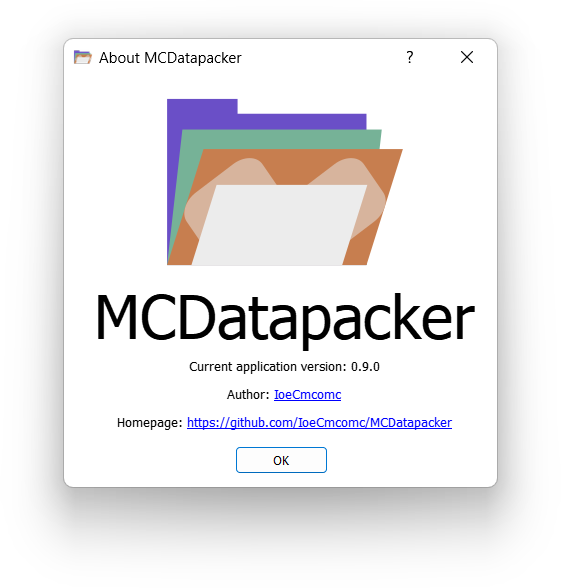
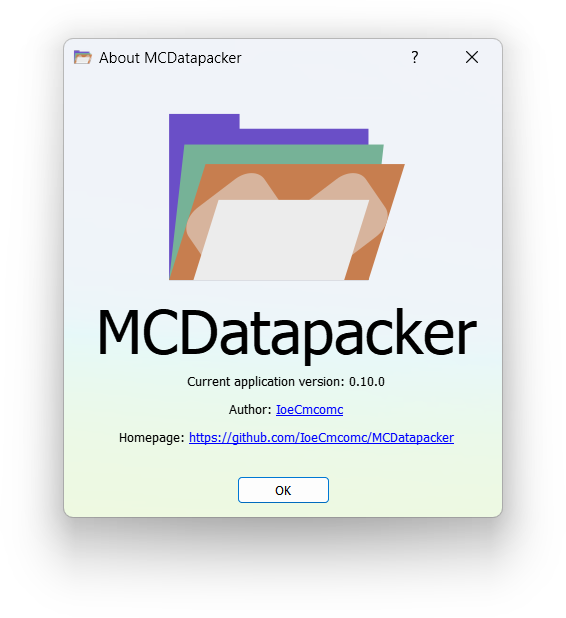
[Release] Bump version to v0.10.0
LocationConditionDialog:
- Fix the "structure" field not exportable to JSON in 1.19+.

- Update copyright year to 2024.
- Update screenshots.

diff --git a/src/locationconditiondialog.cpp b/src/locationconditiondialog.cpp
@@ -154,11 +154,13 @@ void LocationConditionDialog::fromJson(const QJsonObject &value) {
     if (value.contains(QStringLiteral("dimension")))
         setComboValueFrom(ui->dimensionCombo,
                           value[QStringLiteral("dimension")]);
-    if (value.contains(QStringLiteral("feature"))) {
-        if (Game::version() >= Game::v1_19) {
+    if (Game::version() >= Game::v1_19) {
+        if (value.contains(QStringLiteral("structure"))) {
             setComboValueFrom(ui->featureCombo,
                               value[QStringLiteral("structure")]);
-        } else {
+        }
+    } else {
+        if (value.contains(QStringLiteral("feature"))) {
             setComboValueFrom(ui->featureCombo,
                               value[QStringLiteral("feature")]);
         }

diff --git a/README.md b/README.md
@@ -8,7 +8,7 @@
 <p align="center">
 <img src="https://raw.githubusercontent.com/IoeCmcomc/MCDatapacker/master/resource/app/icon/favicon_big.png" width="150">
   <p align="center">
-    <b>MCDatapacker is a Minecraft datapack creator and editor for Minecraft 1.15 – 1.20.2.</b>
+    <b>MCDatapacker is a Minecraft datapack creator and editor for Minecraft 1.15 – 1.20.4.</b>
   </p>
 </p>
 
@@ -17,7 +17,7 @@
 MCDatapacker provides a unified interface for making and editing datapacks. It allows you to create new datapacks, open existing datapacks, manage files, and edit them quickly and conveniently.
 
 ## Features
-- Create and open any datapacks from 1.15 to 1.20.2;
+- Create and open any datapacks from 1.15 to 1.20.4;
 - Add, rename, and delete files via the left-side tree view;
 - Multi-tab interface;
 - Code editor with syntax highlighting, error checking for function and JSON files, smart code completion for function files;
@@ -52,7 +52,7 @@ MCDatapacker provides a unified interface for making and editing datapacks. It a
 <img src="https://raw.githubusercontent.com/IoeCmcomc/MCDatapacker/master/screenshots/Raw%20JSON%20text%20editor.png" width="30%"></img>
 
 ## Download
-The program currently supports 1.15 - 1.20.2 data packs, and it run on Windows (tested on Windows 7 and Windows 11) and Linux (tested on Ubuntu 20.04.5).
+The program currently supports 1.15 - 1.20.4 data packs, and it run on Windows (tested on Windows 7 and Windows 11) and Linux (tested on Ubuntu 20.04.5).
 
 Warning: This program may contains errors. Use it with your own risk.
 
